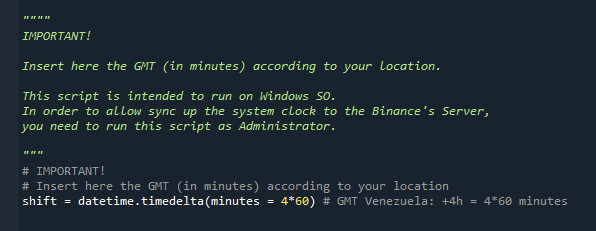
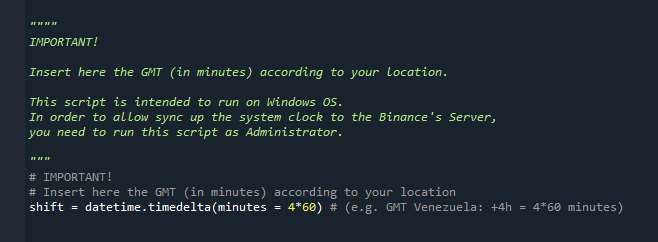
Add files via upload

diff --git a/Principal_HTT.py b/Principal_HTT.py
@@ -21,14 +21,14 @@ IMPORTANT!
 
 Insert here the GMT (in minutes) according to your location.
 
-This script is intended to run on Windows SO.
+This script is intended to run on Windows OS.
 In order to allow sync up the system clock to the Binance's Server, 
 you need to run this script as Administrator.
 
 """
 # IMPORTANT!
 # Insert here the GMT (in minutes) according to your location
-shift = datetime.timedelta(minutes = 4*60) # GMT Venezuela: +4h = 4*60 minutes
+shift = datetime.timedelta(minutes = 4*60) # (e.g. GMT Venezuela: +4h = 4*60 minutes)
 
 
 import win32api
